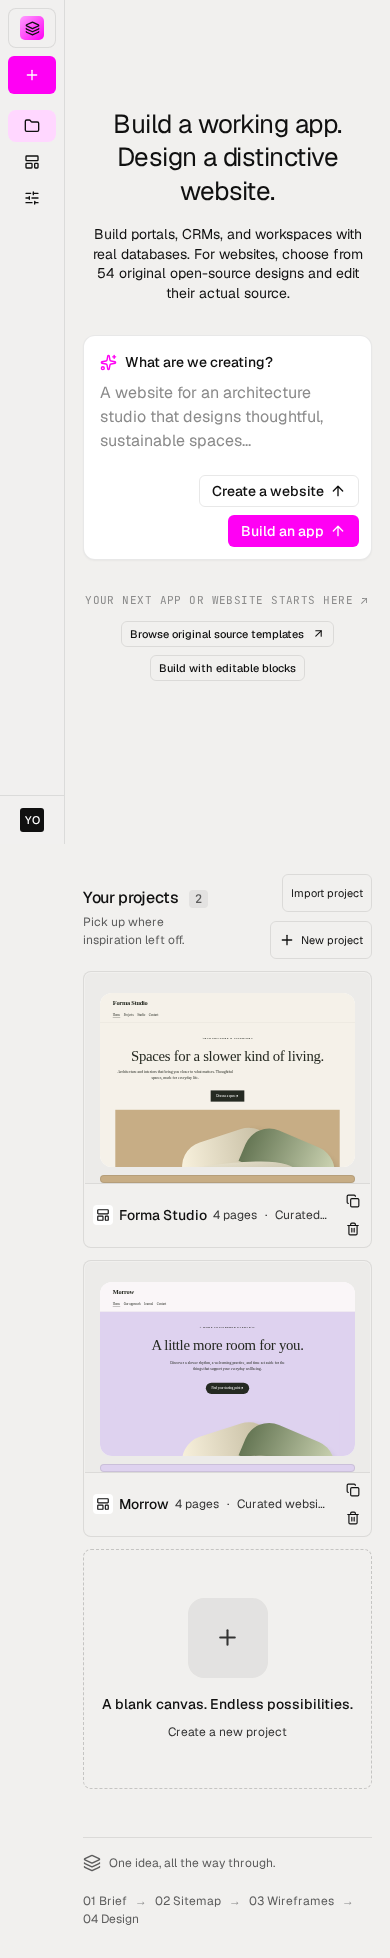
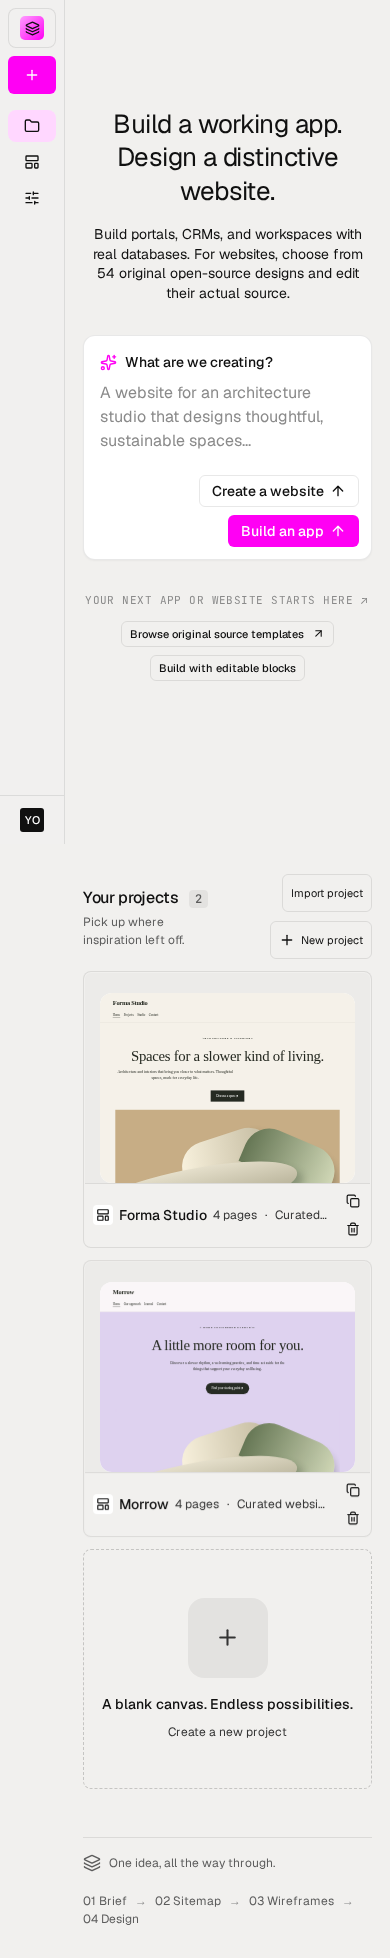
Remove the accent strip from project cards
It read as a stray bar rather than as the project's colour.

Changed region(s): [[0.4615, 0.7165, 0.9231, 0.7789], [0.2769, 0.5919, 0.8923, 0.6231], [0.2462, 0.7165, 0.4615, 0.7477]]

diff --git a/src/App.tsx b/src/App.tsx
@@ -686,10 +686,6 @@ export default function App() {
                                 )}
                               </div>
                             </span>
-                            <span
-                              className="project-swatch"
-                              style={{ background: p.theme.accent }}
-                            />
                             <span className="preview-open">
                               Open project <ArrowUpRight size={15} />
                             </span>

diff --git a/src/style.css b/src/style.css
@@ -644,12 +644,6 @@ small {
   border-radius: 12px;
   background: var(--bg-raised);
 }
-.project-swatch {
-  display: block;
-  height: 10px;
-  border-radius: 4px;
-  box-shadow: inset 0 0 0 1px var(--line);
-}
 .project-meta > div:first-child {
   display: flex;
   align-items: center;
